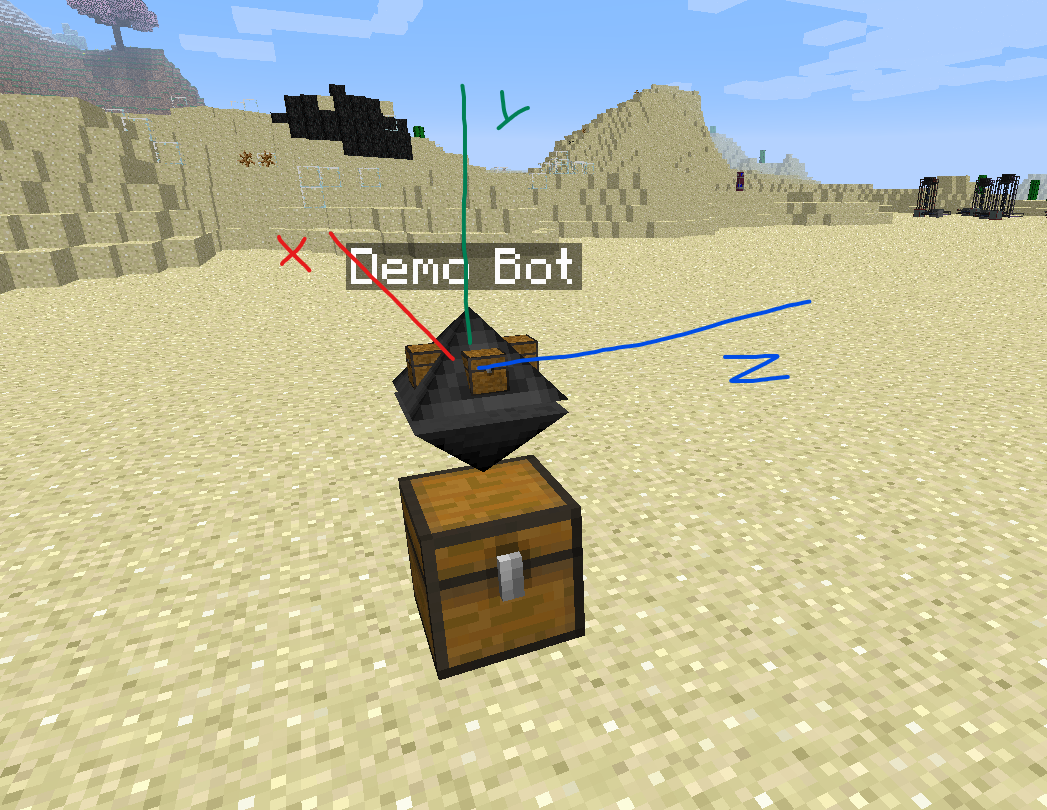
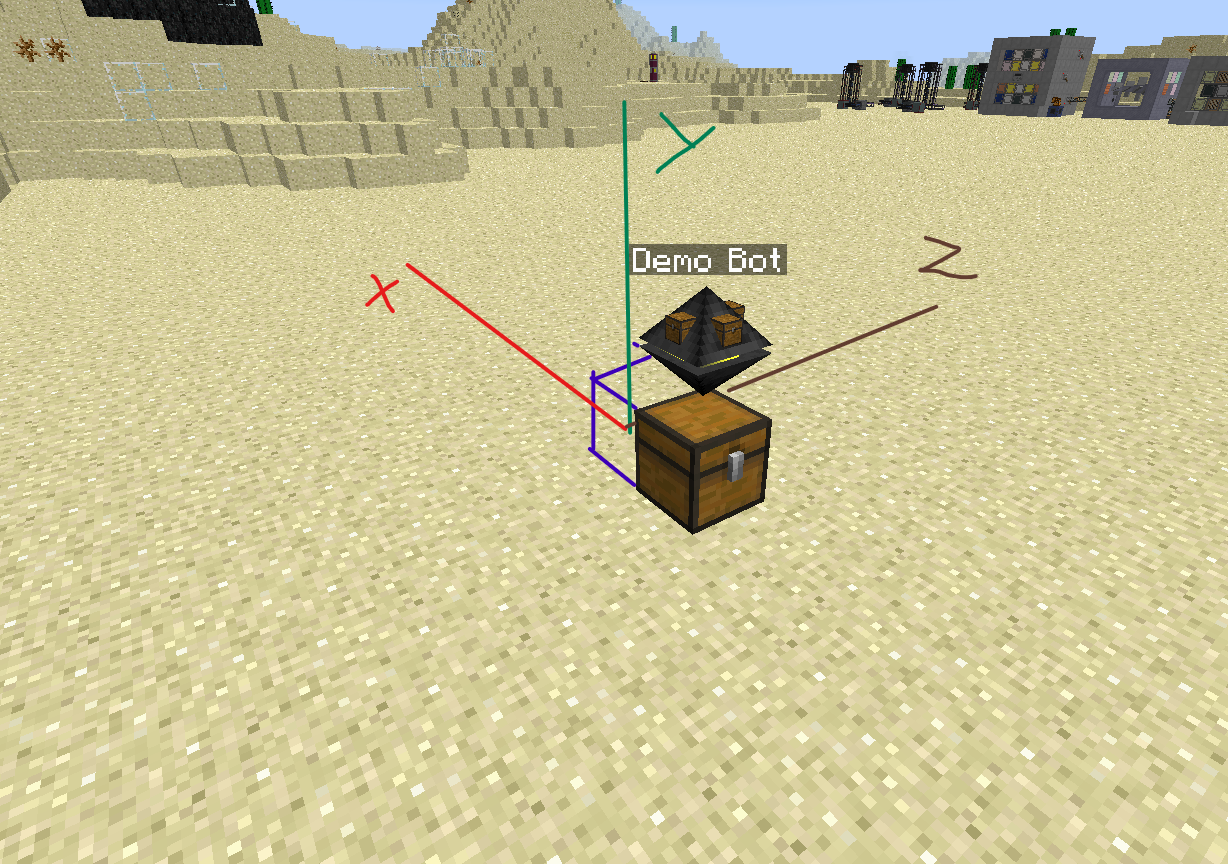
Update 1 (#1)
+Support for MSRs
+Installer/Updater Script
+Robot bounds made smaller (only needs column above start inventory and layer above reactor)
+Added example to README
+Probably a lot more stuff

*Fixed a lot of bugs

diff --git a/README.md b/README.md
@@ -1,14 +1,14 @@
 # NuclearCraft Overhaul Reactor Builder
 
 Run<br>
-`wget -f https://raw.githubusercontent.com/sanrom/nco-reactor-builder/master/config2_parser.lua`<br>
-`wget -f https://raw.githubusercontent.com/sanrom/nco-reactor-builder/master/reactor_builder.lua`<br>
+`wget -f https://raw.githubusercontent.com/sanrom/nco-reactor-builder/master/rb_installer.lua`<br>
+`rb_installer.lua`<br>
 in OpenComputers to install the scripts!
 
 ## Features
 
 - [x] Fission SFRs
-- [ ] Fission MSRs
+- [x] Fission MSRs
 - [ ] Turbines
 - [ ] ~~Heat Exchangers~~
 - [ ] ~~Fusion Reactors~~
@@ -31,6 +31,7 @@ For the reactor builder, a robot with the following components/upgrades are **re
 - Screen
 - Graphics Card
 - Keyboard
+- Internet Card (to download the scripts)
 
 The following componets/upgrades are *recommended*:
 - Multiple Inventory Upgrades: more inventory space on the robot means less back and forth to the storage chest
@@ -40,14 +41,38 @@ The following componets/upgrades are *recommended*:
 ## Setup
 
 ![Demo Bot sitting on top of chest](examples/demobotwithaxes.png)
+In the image above, the blue block represents where the first corner block will be placed. The robot will then proceed to build out the reactor in the three axes listed. The robot requires an extra layer of space at the top of the reactor to place the final layer of blocks. The column above the initial inventory also needs to be clear of any obstructions.
 
 To function properly, the robot will need access to an inventory below its starting position. You can insert extra blocks into this inventory for the robot to pick them up as it needs. If the robot runs out of blocks in it's internal inventory while it is building, it will check that inventory for blocks.
 
-If you want to see the outline of the reactor before building it, run `reactor_builder -o <filename>`. The robot will move along the x, y, and z axes respectively to show the *internal* size of the reactor. The robot requires 1 block additional space around those bounds (where the casing will be).
+If you want to see the outline of the reactor before building it, run `reactor_builder -o <filename>`. The robot will move along the x, y, and z axes respectively to show the *internal* size of the reactor.
 
 If your reactor uses multiple fuel types, run with the `-l` flag. This will stop the robot at each level, allowing you to filter the fuel cells before the robot builds over it.
 
+## Examples
+
+### Overhaul Tutorial SFR
+
+![Overhaul Tutorial SFR](examples/OverhaulTutorialSFR.png)
+
+[Link to NCPF File](examples/OverhaulTutorialSFR.ncpf)
+
+Download the NCPF file to the robot: `wget -f https://raw.githubusercontent.com/sanrom/nco-reactor-builder/master/examples/OverhaulTutorialSFR.ncpf`<br>
+See the outline of the reactor: `reactor_builder -o OverhaulTutorialSFR.ncpf`<br>
+Build the reactor: `reactor_builder OverhaulTutorialSFR.ncpf`
+
+This is what the finished reactor should look like:
+![Finished Reactor](examples/finishedreactor.png)
+
 ## Command Syntax
+
+### Installer/Updater
+
+`rb_installer [<branch>]`
+
+`[<branch>]`: branch of files to install, defaults to `master`
+
+### Reactor Builder
 
 `reactor_builder [-d/g/o/s/I/p] <filename> [<x> <y> <z>]`
 
